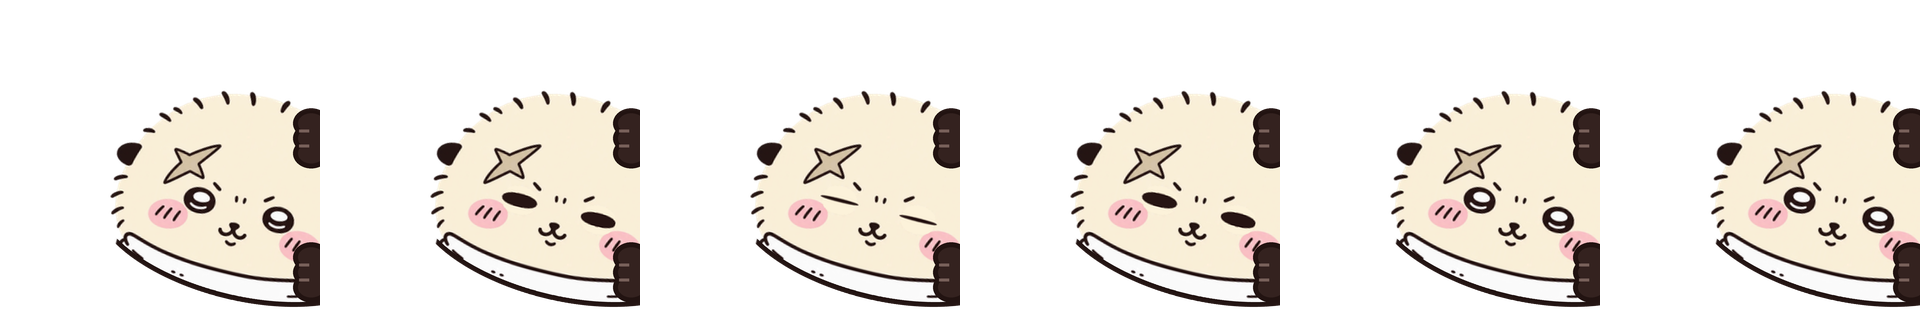
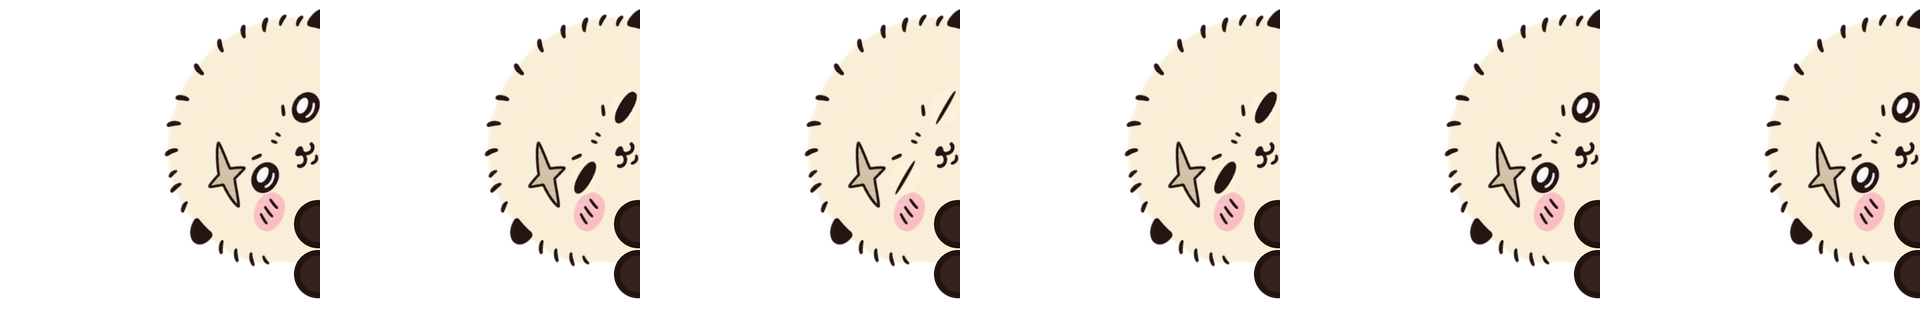
Rakko의 숨기 그림과 매달리기 그림을 추가한다
scripts/make-peek.py에 rakko 설정을 넣고 skins/rakko/peek.png, hang.png를
다시 만들었다. 매니페스트에는 hang 포즈만 늘었다. 어디든 돌아다니는 설정에서도
창 위 매달리기가 같게 동작하는지 보는 테스트를 더했다.

Claude-Session: https://claude.ai/code/session_01TnCzCTyCmno8xW8Zhxkbmu

diff --git a/tests/windowplay.test.ts b/tests/windowplay.test.ts
@@ -109,6 +109,18 @@ describe('looking over the top edge of a window', () => {
     expect(['idle', 'sit', 'walk']).toContain(pet.view.state);
   });
 
+  it('does it just the same when it may go anywhere on the screen, and stays where it is if the window goes away', () => {
+    const pet = onWindow(2, { roam: 'free' });
+    expect(untilHanging(pet)).toBe(true);
+    expect(pet.view.y).toBeCloseTo(500, 1);
+    pet.setPlatforms([]);
+    run(pet, 400);
+    // it does not fall: a pet that goes anywhere is as happy in the air
+    expect(pet.hanging).toBe(false);
+    expect(pet.view.state).not.toBe('fall');
+    expect(pet.view.y).toBeCloseTo(500, 1);
+  });
+
   it('never does it on the floor, or in the air', () => {
     const pet = make(3, { chatty: true });
     let hung = false;

diff --git a/scripts/make-peek.py b/scripts/make-peek.py
@@ -31,7 +31,8 @@ import json
 import sys
 from pathlib import Path
 
-from PIL import Image
+import numpy as np
+from PIL import Image, ImageDraw
 
 sys.path.insert(0, str(Path(__file__).resolve().parent))
 import peek_art as pa  # noqa: E402
@@ -127,6 +128,48 @@ def chiikawa_prepare(img):
     return pa.bridge(f, rows=(178, 218), x_span=(60, 135), ink=CHIIKAWA_INK, fill=CHIIKAWA_BODY, outside='left', window=6)
 
 
+RAKKO_INK = (34, 19, 17)
+RAKKO_HAND = (52, 34, 31)     # the hands in the art are as dark as the outline; a little lighter here so the ring reads
+RAKKO_BODY = (252, 242, 219)
+
+# Low on the left side of Rakko's body: the scarf is a white band across the body, and at its left end hang a loose end of
+# the scarf (a flap) and a dark hand. Once the picture is turned they stick out of the body below the face. They are taken
+# off, and the scarf band with them (what would still show of it is its round end beside the hands, and that reads as
+# a loose end again). The body outline here is only the plain edge of the cream, so it is drawn straight on from the head's
+# edge (clean down to row 178) to the body's edge, and the body is filled to it.
+# RAKKO_EDGE: (x, y) of that new left edge of the body, in pixels of the frame.
+RAKKO_EDGE = [
+    (41.5, 178.0), (43.0, 180.0), (44.5, 182.0), (46.0, 184.0), (48.2, 188.0), (50.3, 192.0), (52.2, 196.0), (54.0, 200.0),
+    (55.4, 204.0), (56.6, 208.0), (57.5, 212.0), (58.2, 217.0), (58.9, 223.0), (60.0, 231.0), (61.5, 241.0), (63.0, 250.0),
+    (66.0, 257.0), (71.0, 263.0), (80.0, 271.0), (86.0, 277.0),
+]
+RAKKO_FILL_RIGHT = 140.0     # to the right of this column, and below the last row, the picture is left as it is (behind the wall)
+RAKKO_FILL_TOP = 177.0
+RAKKO_FILL_BOTTOM = 277.0
+
+
+def rakko_prepare(img):
+    """`img` is a frame made SS times as big. Takes off the scarf, its loose end and the left hand (all rows alike)."""
+    ss = pa.SS
+    arr = np.asarray(img).copy()
+    h, w = arr.shape[:2]
+    curve = [(x * ss, y * ss) for x, y in RAKKO_EDGE]
+    # left of the new edge: nothing
+    gone = Image.new('L', (w, h), 0)
+    ImageDraw.Draw(gone).polygon([(0, RAKKO_EDGE[0][1] * ss)] + curve + [(0, RAKKO_FILL_BOTTOM * ss)], fill=255)
+    arr[np.asarray(gone) > 0] = 0
+    # right of it: plain body, over the scarf band, the hand and the top of the flap
+    paint = Image.new('L', (w, h), 0)
+    corner = (RAKKO_EDGE[0][0] + 3.5) * ss
+    ImageDraw.Draw(paint).polygon(
+        [(corner, RAKKO_FILL_TOP * ss), (RAKKO_FILL_RIGHT * ss, RAKKO_FILL_TOP * ss), (RAKKO_FILL_RIGHT * ss, RAKKO_FILL_BOTTOM * ss),
+         (curve[-1][0], RAKKO_FILL_BOTTOM * ss)] + curve[::-1], fill=255)
+    m = np.asarray(paint) > 0
+    arr[m, :3] = np.array(RAKKO_BODY, dtype=np.uint8)
+    arr[m, 3] = 254
+    return Image.fromarray(arr, 'RGBA')
+
+
 SKINS = {
     'usagi': dict(
         ink=USAGI_INK,
@@ -152,6 +195,21 @@ SKINS = {
         prepare=chiikawa_prepare,
         peek=dict(face=(157, 137), tilt=60, wall_dx=34, bottom=210, hands=[(2, 176), (2, 210)], hand_r=11.5, hand_w=4.5),
         hang=dict(cut=182, face_x=160.5, hands_dx=61.5, hand_r=11.5, hand_w=4.5),
+    ),
+    'rakko': dict(
+        ink=RAKKO_INK,
+        hand=RAKKO_HAND,
+        prepare=rakko_prepare,
+        # face: the point the picture turns about. The middle of the eyes is (154, 131); it is moved 10 px to the right, so that the
+        # right ear is not clipped by the top of the frame while the picture turns (the picture is the same, only 8.7 px lower in
+        # the frame); wall_dx: the rightmost pixel of the mouth (the little curve under it included) turns to 32.9 to the right of
+        # the middle of the eyes and the wall is 2 more, that is 35, and 30 for the moved face; bottom: the row where the lower
+        # edge of the head meets the wall, the lower hand is 2 px under it and the upper hand 2 * (r + w) + 2 above that;
+        # the outside of a hand, 2 * (r + w) = 48, is 0.19 of the head's width (250)
+        peek=dict(face=(164, 131), tilt=60, wall_dx=30, bottom=272, hands=[(2, 224), (2, 274)], hand_r=18, hand_w=6),
+        # cut: 12 px under the last row of the mouth (167), just above the top of the scarf (178); face_x: the middle of the head
+        # at the cut (from x 43 to 269; the middle of the eyes is 2 px to the left of it); hands_dx: 0.85 of half of that width
+        hang=dict(cut=179, face_x=156, hands_dx=96, hand_r=18, hand_w=6),
     ),
 }
 
